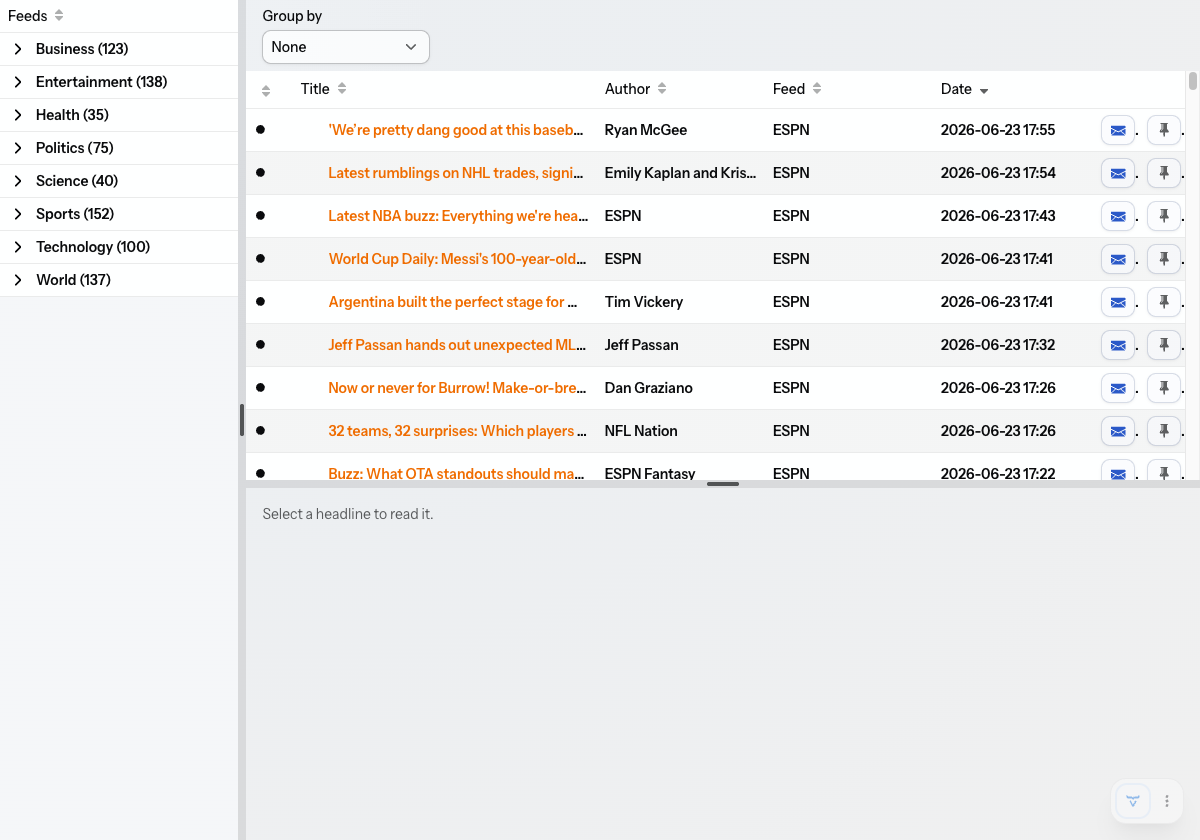
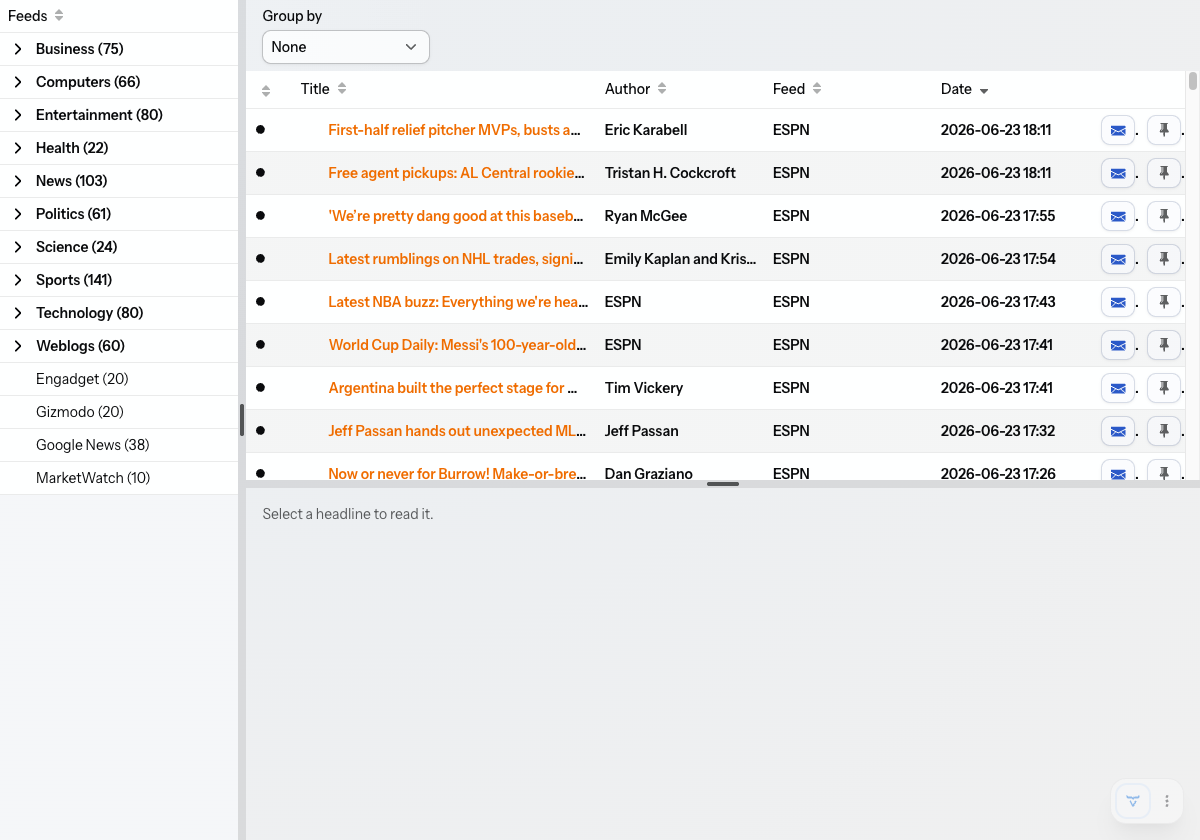
Align feeds tree to RSSOwl's real taxonomy (categories + ungrouped channels)
Earlier cut invented its own categories (a non-RSSOwl "World", no "Weblogs",
no ungrouped channels). Now mirrors RSSOwl's default_feeds.xml structure:

- feeds.opml: category folders Business, Computers, Entertainment, Health, News,
  Politics, Science, Sports, Technology, Weblogs (current section feeds) PLUS
  top-level ungrouped channels (RSSOwlnix News, CNN, Gizmodo, Engadget, Google
  News, MarketWatch) beside the folders, with current URLs. "World" dropped.
- Feed tree renders "Uncategorized" feeds as top-level leaves (siblings of the
  folders), like RSSOwl's loose channels.
- CATEGORY_COLOR updated (Computers/News/Weblogs).
- Live run: 800 headlines from 38 feeds; CNN's rss.cnn.com dropped the SSL
  handshake and was skipped (graceful fallback). REPORT.md + screenshot updated.

diff --git a/poc/headlines/src/main/java/com/example/headlines/HeadlinesView.java b/poc/headlines/src/main/java/com/example/headlines/HeadlinesView.java
@@ -97,14 +97,18 @@ public class HeadlinesView extends Div {
         feedTree.setSizeFull();
         feedTree.addThemeVariants(GridVariant.LUMO_COMPACT, GridVariant.LUMO_NO_BORDER);
 
+        // Split into category folders and ungrouped top-level channels (category "Uncategorized"),
+        // mirroring RSSOwl's default_feeds.xml: folders + loose channels beside them.
         Map<String, List<NewsItem>> byCat = new TreeMap<>(); // alphabetical -> Business first
+        List<NewsItem> ungrouped = new ArrayList<>();
         for (NewsItem n : allItems) {
-            byCat.computeIfAbsent(n.category(), k -> new ArrayList<>()).add(n);
+            if ("Uncategorized".equals(n.category())) ungrouped.add(n);
+            else byCat.computeIfAbsent(n.category(), k -> new ArrayList<>()).add(n);
         }
-        List<FeedNode> categories = new ArrayList<>();
+        List<FeedNode> roots = new ArrayList<>();
         Map<String, List<FeedNode>> feedsByCategory = new HashMap<>();
         for (var e : byCat.entrySet()) {
-            categories.add(new FeedNode.Category(e.getKey(), e.getValue().size()));
+            roots.add(new FeedNode.Category(e.getKey(), e.getValue().size()));
             Map<String, Long> byFeed = e.getValue().stream()
                     .collect(Collectors.groupingBy(NewsItem::feed, TreeMap::new, Collectors.counting()));
             List<FeedNode> feeds = byFeed.entrySet().stream()
@@ -112,9 +116,13 @@ public class HeadlinesView extends Div {
                     .toList();
             feedsByCategory.put(e.getKey(), feeds);
         }
+        // ungrouped channels as top-level leaves (siblings of folders), alphabetical
+        ungrouped.stream()
+                .collect(Collectors.groupingBy(NewsItem::feed, TreeMap::new, Collectors.counting()))
+                .forEach((feed, count) -> roots.add(new FeedNode.Feed(feed, "Uncategorized", count.intValue())));
 
         feedTree.addHierarchyColumn(FeedNode::label).setHeader("Feeds");
-        feedTree.setItems(categories, node ->
+        feedTree.setItems(roots, node ->
                 node instanceof FeedNode.Category c ? feedsByCategory.getOrDefault(c.name(), List.of())
                         : List.of());
         feedTree.setPartNameGenerator(n -> n instanceof FeedNode.Category ? "feed-category" : null);

diff --git a/poc/headlines/src/main/java/com/example/headlines/FeedService.java b/poc/headlines/src/main/java/com/example/headlines/FeedService.java
@@ -44,10 +44,12 @@ public class FeedService {
     private static final Logger log = LoggerFactory.getLogger(FeedService.class);
     private static final int MAX_ITEMS = 800;
     private static final Duration PER_FEED_TIMEOUT = Duration.ofSeconds(8);
-    private static final Map<String, String> CATEGORY_COLOR = Map.of(
-            "Business", "#1565c0", "Entertainment", "#6a1b9a", "Health", "#2e7d32",
-            "Politics", "#c62828", "Science", "#00838f", "Sports", "#ef6c00",
-            "Technology", "#283593", "World", "#4e342e");
+    private static final Map<String, String> CATEGORY_COLOR = Map.ofEntries(
+            Map.entry("Business", "#1565c0"), Map.entry("Computers", "#37474f"),
+            Map.entry("Entertainment", "#6a1b9a"), Map.entry("Health", "#2e7d32"),
+            Map.entry("News", "#00695c"), Map.entry("Politics", "#c62828"),
+            Map.entry("Science", "#00838f"), Map.entry("Sports", "#ef6c00"),
+            Map.entry("Technology", "#283593"), Map.entry("Weblogs", "#5d4037"));
 
     private record FeedSource(String title, String category, String url) {}
 